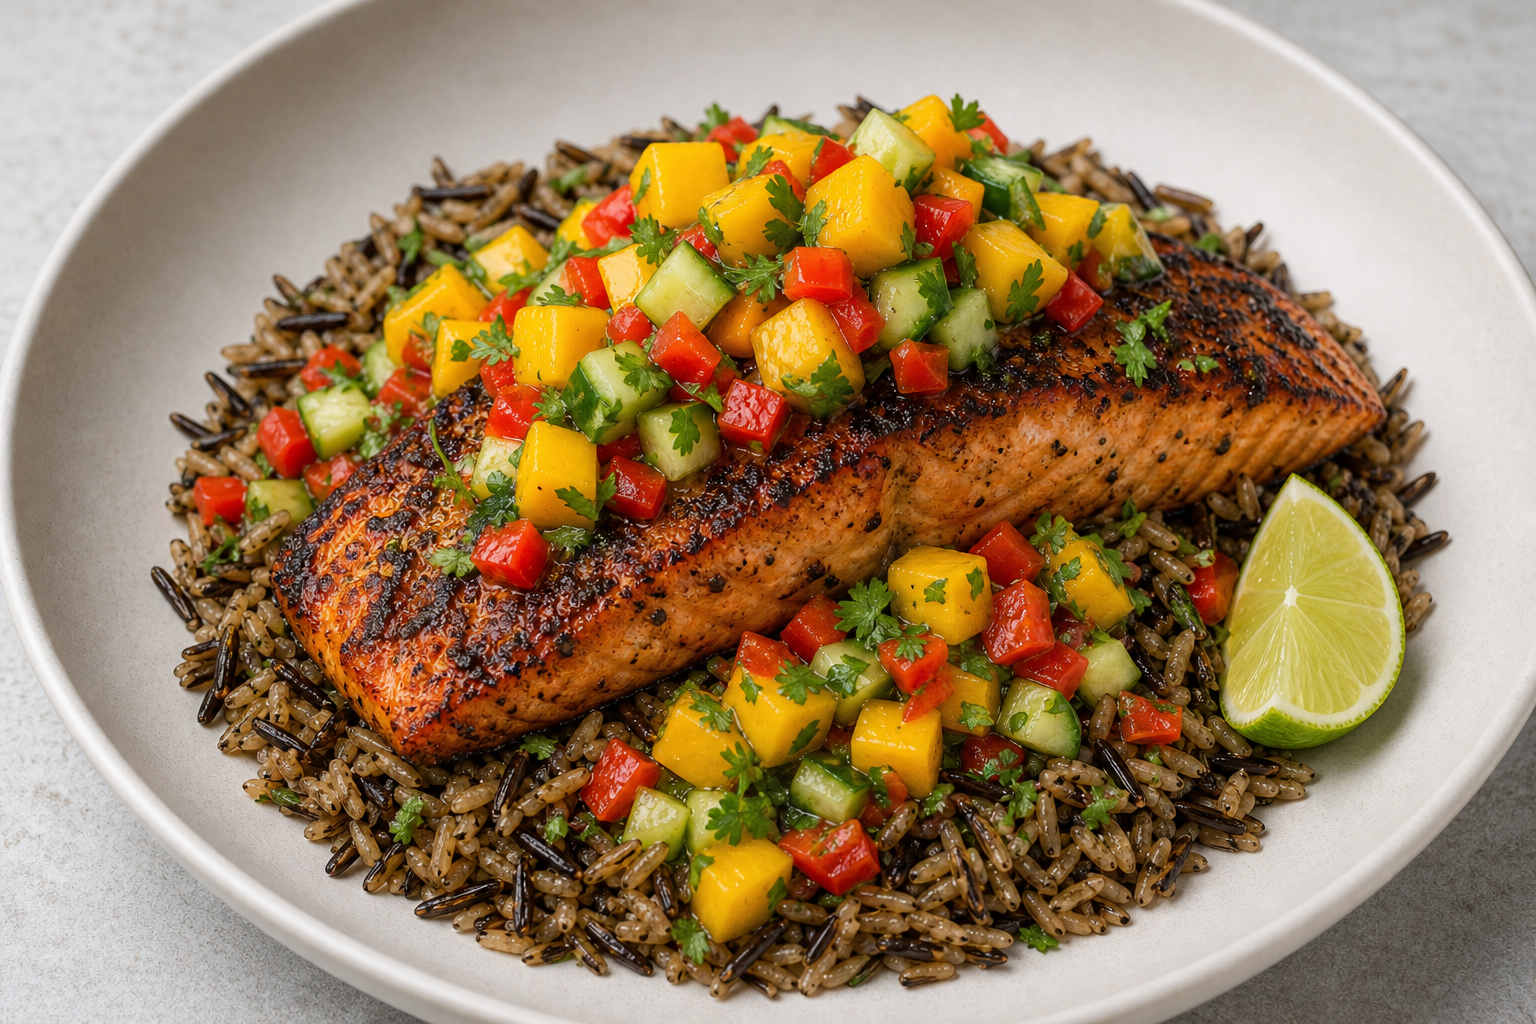
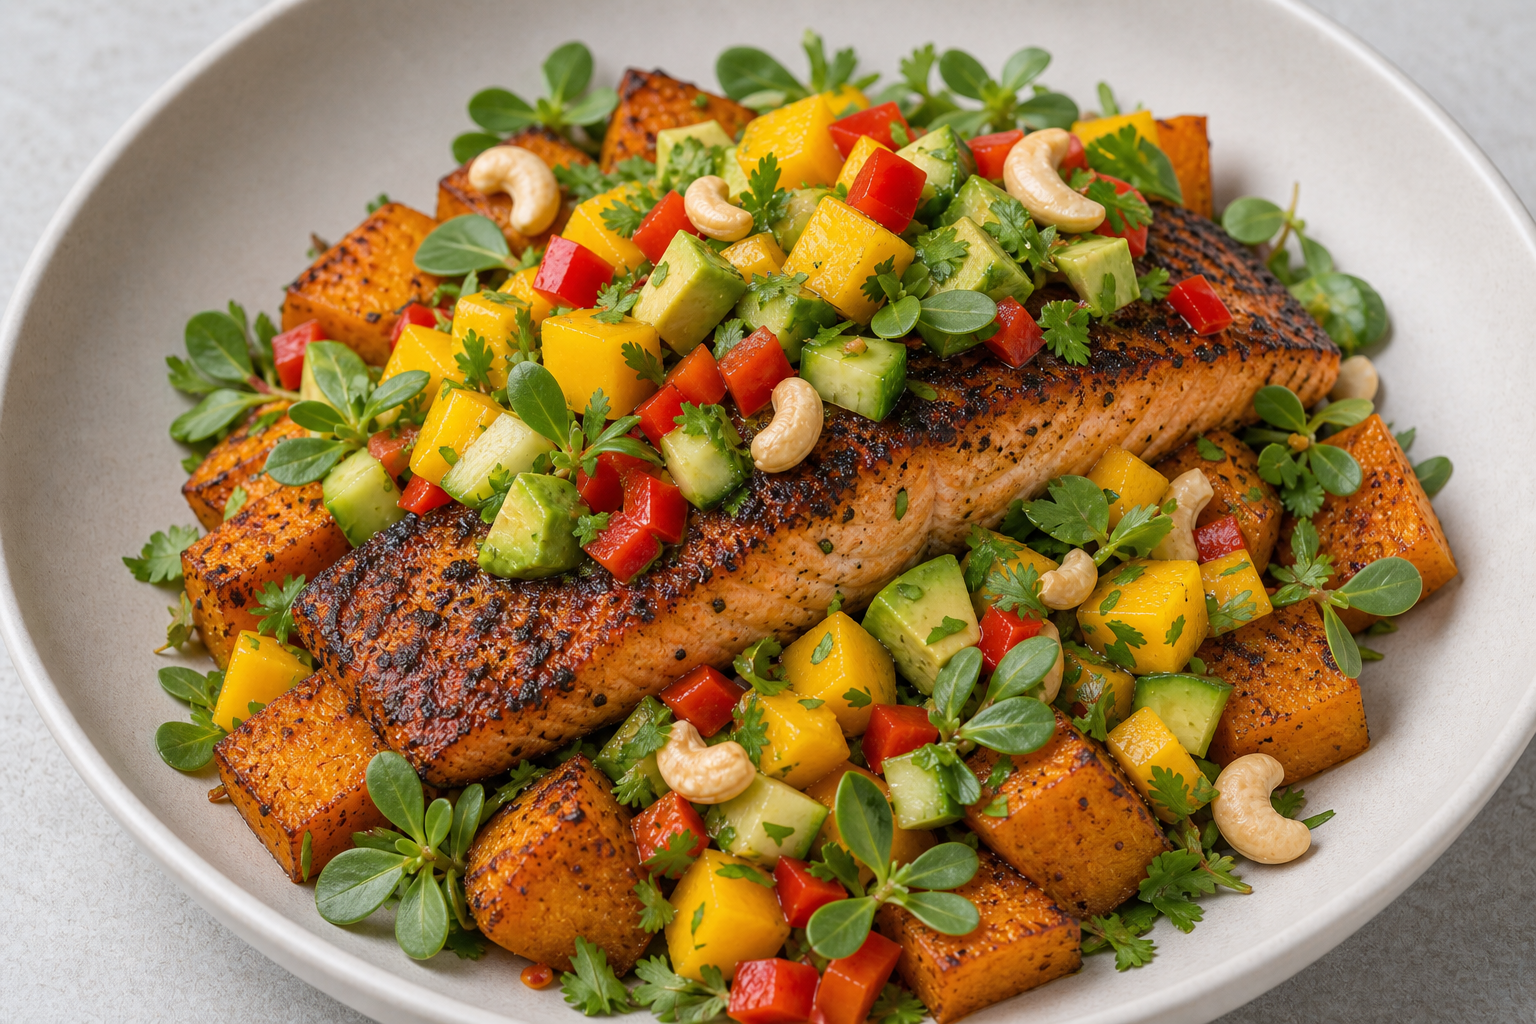
Fix crafted-for-you library revision crash and update two meal recipes.
Parse meal library revision timestamps safely on SQLite, swap salmon mango salsa to roasted pumpkin with avocado/purslane/cashews (new photo), and add lemon-tahini drizzle plus sesame to the beef-liver meatballs.

diff --git a/database/data/menu/library_refiner_overrides.php b/database/data/menu/library_refiner_overrides.php
@@ -1167,30 +1167,33 @@ Serve dressing on the side.',
         ],
     ],
     'Grilled Salmon Mango Salsa' => [
-        'synced_at' => '2026-07-20T08:20:00+00:00',
+        'synced_at' => '2026-07-22T15:59:48+00:00',
         'ingredients' => [
+            'Avocado' => 40.0,
             'Bell Pepper (Red)' => 30.0,
+            'Cashew Nuts' => 10.0,
             'Cucumber' => 40.0,
             'Fresh Coriander' => 3.0,
             'Lime Juice' => 10.0,
             'Mango' => 50.0,
+            'Pumpkin' => 90.0,
+            'Purslane' => 40.0,
             'Salmon (Raw)' => 150.0,
-            'Wild Rice (Cooked)' => 90.0,
         ],
-        'highlight' => 'Pan-seared salmon over wild rice with bright mango, cucumber, and pepper salsa.',
-        'short_description' => 'Pan-seared salmon over wild rice with bright mango, cucumber, and pepper salsa.',
-        'instructions' => 'Prepare Wild Rice (Cooked) per package or base instructions; keep warm.
-Dice mango, pepper, and cucumber. Mix with lime and coriander for salsa.
+        'highlight' => 'Pan-seared salmon over roasted pumpkin with mango salsa salad, avocado, purslane, and cashews.',
+        'short_description' => 'Pan-seared salmon over roasted pumpkin with mango salsa salad, avocado, purslane, and cashews.',
+        'instructions' => 'Cube pumpkin and roast at 200°C until tender and lightly caramelized at the edges.
+Dice mango, pepper, cucumber, and avocado. Toss with purslane, cashew nuts, lime juice, and coriander.
 Grill or pan-sear salmon until cooked through.
-Serve salmon over rice with mango salsa on top.',
+Serve salmon over roasted pumpkin with the mango salsa salad.',
         'diet_tags' => [
             0 => 'Dairy-free',
             1 => 'Gluten-free',
-            2 => 'Nut-free',
         ],
         'food_filter_tags' => [
             0 => 'fish',
             1 => 'nightshades',
+            2 => 'nuts',
         ],
     ],
     'Grilled Sumac Chicken Skewers w Zereshk & Turmeric Rice & Roasted Mixed Vegetables' => [
@@ -2163,7 +2166,7 @@ Serve immediately.',
         ],
     ],
     'Spiced Beef & Liver Meatballs w Roasted Tomato Couscous' => [
-        'synced_at' => '2026-07-20T08:00:00+00:00',
+        'synced_at' => '2026-07-22T16:08:07+00:00',
         'ingredients' => [
             'Beef Ground Lean' => 128.0,
             'Beef Liver' => 22.0,
@@ -2171,23 +2174,25 @@ Serve immediately.',
             'Cooked Couscous (Base)' => 90.0,
             'Fresh Basil' => 5.0,
             'Garlic (Raw)' => 4.0,
+            'Lemon-Tahini Dressing (Base)' => 15.0,
             'Marinara Sauce (Base)' => 90.0,
             'Olive Oil (Extra Virgin)' => 4.0,
             'Ras El Hanout (Base)' => 2.0,
+            'Sesame Seeds' => 10.0,
             'White Onion' => 28.0,
         ],
-        'highlight' => 'Spiced beef and liver meatballs simmered in marinara over fluffy couscous with roasted cherry tomatoes.',
-        'short_description' => 'Spiced beef and liver meatballs simmered in marinara over fluffy couscous with roasted cherry tomatoes.',
+        'highlight' => 'Spiced beef and liver meatballs simmered in marinara over fluffy couscous with roasted cherry tomatoes, lemon-tahini drizzle, and sesame seeds.',
+        'short_description' => 'Spiced beef and liver meatballs simmered in marinara over fluffy couscous with roasted cherry tomatoes, lemon-tahini drizzle, and sesame seeds.',
         'instructions' => 'Finely mince beef liver and mix with ground beef, grated onion, garlic, and Ras El Hanout (Base). Roll into small meatballs.
 Brown meatballs in olive oil; add Marinara Sauce (Base) and cherry tomatoes. Simmer 8–10 minutes until cooked through.
-Prepare Cooked Couscous (Base) per base recipe instructions. Plate couscous, top with meatballs and sauce, and finish with fresh basil.',
+Prepare Cooked Couscous (Base) per base recipe instructions. Plate couscous, top with meatballs and sauce, drizzle with Lemon-Tahini Dressing (Base), sprinkle sesame seeds over the top, and finish with fresh basil.',
         'diet_tags' => [
             0 => 'Dairy-free',
-            1 => 'Gluten-free',
         ],
         'food_filter_tags' => [
             0 => 'gluten',
             1 => 'nightshades',
+            2 => 'sesame',
         ],
     ],
     'Spiced Cauliflower Chickpea Salad' => [

diff --git a/tests/Feature/BalancedComplexCarbRecipeRefinerTest.php b/tests/Feature/BalancedComplexCarbRecipeRefinerTest.php
@@ -33,6 +33,9 @@ function seedComplexCarbRefinerFixtures(): void
         'Salmon (Raw)' => ['calories' => 208, 'protein' => 20.4, 'carbs' => 0, 'fat' => 13.4],
         'Sweet Potato' => ['calories' => 86, 'protein' => 1.6, 'carbs' => 20.1, 'fat' => 0.1],
         'Wild Rice (Cooked)' => ['calories' => 101, 'protein' => 4, 'carbs' => 21.3, 'fat' => 0.3],
+        'Pumpkin' => ['calories' => 26, 'protein' => 1, 'carbs' => 6.5, 'fat' => 0.1],
+        'Avocado' => ['calories' => 160, 'protein' => 2, 'carbs' => 8.5, 'fat' => 14.7],
+        'Cashew Nuts' => ['calories' => 553, 'protein' => 18.2, 'carbs' => 30.2, 'fat' => 43.8],
         'Turmeric Rice (Base)' => ['calories' => 15.62, 'protein' => 0.39, 'carbs' => 4.32, 'fat' => 0.03],
         'Cooked Quinoa (Base)' => ['calories' => 42.86, 'protein' => 1.57, 'carbs' => 7.61, 'fat' => 0.68],
         'Cooked Brown Basmati Rice (Base)' => ['calories' => 64.8, 'protein' => 1.64, 'carbs' => 13.4, 'fat' => 0.44],
@@ -116,7 +119,7 @@ test('balanced rotation mains use varied complex carbs instead of steamed white 
 
     $expectedCarbSources = [
         'Citrus Herb Salmon with Asparagus & Sweet Potato' => 'Sweet Potato',
-        'Grilled Salmon Mango Salsa' => 'Wild Rice (Cooked)',
+        'Grilled Salmon Mango Salsa' => 'Pumpkin',
         'Grilled Beef Steak Ratatouille & Saffron rice' => 'Saffron Rice (Base)',
         'Beef Bibimbap' => 'Cooked Quinoa (Base)',
         'Persian Herb Beef Stew' => 'Steamed Basmati Rice (Base)',

diff --git a/app/Services/NutrientDenseLiverMealRecipeRefiner.php b/app/Services/NutrientDenseLiverMealRecipeRefiner.php
@@ -231,13 +231,15 @@ final class NutrientDenseLiverMealRecipeRefiner
                     'Cooked Couscous (Base)' => 90.0,
                     'Fresh Basil' => 5.0,
                     'Garlic (Raw)' => 4.0,
+                    'Lemon-Tahini Dressing (Base)' => 15.0,
                     'Marinara Sauce (Base)' => 90.0,
                     'Olive Oil (Extra Virgin)' => 4.0,
                     'Ras El Hanout (Base)' => 2.0,
+                    'Sesame Seeds' => 10.0,
                     'White Onion' => 28.0,
                 ],
                 'diet_tags' => $tags,
-                'short_description' => 'Spiced beef and liver meatballs simmered in marinara over fluffy couscous with roasted cherry tomatoes.',
+                'short_description' => 'Spiced beef and liver meatballs simmered in marinara over fluffy couscous with roasted cherry tomatoes, lemon-tahini drizzle, and sesame seeds.',
             ],
             self::PERI_PERI_CHICKEN_LIVER_NAME => [
                 'ingredients' => [

diff --git a/app/Models/Meal.php b/app/Models/Meal.php
@@ -16,6 +16,7 @@ use Illuminate\Database\Eloquent\Model;
 use Illuminate\Database\Eloquent\Relations\BelongsToMany;
 use Illuminate\Database\Eloquent\Relations\HasOne;
 use Illuminate\Database\Eloquent\SoftDeletes;
+use Illuminate\Support\Carbon;
 
 class Meal extends Model
 {
@@ -162,6 +163,24 @@ class Meal extends Model
         $max = static::queryForMealLibrary()->max('library_sort_order');
 
         return $max !== null ? ((int) $max) + 1 : 0;
+    }
+
+    public static function libraryRevisionTimestamp(): int
+    {
+        $updatedAt = static::queryForMealLibrary()
+            ->reorder()
+            ->orderByDesc('updated_at')
+            ->value('updated_at');
+
+        if ($updatedAt === null) {
+            return 0;
+        }
+
+        if ($updatedAt instanceof \DateTimeInterface) {
+            return $updatedAt->getTimestamp();
+        }
+
+        return (int) Carbon::parse($updatedAt)->getTimestamp();
     }
 
     /**

diff --git a/app/Services/BalancedMealInstructionRefiner.php b/app/Services/BalancedMealInstructionRefiner.php
@@ -333,10 +333,10 @@ final class BalancedMealInstructionRefiner
                 'Serve salmon with sweet potato and asparagus.',
             ]),
             'Grilled Salmon Mango Salsa' => $this->steps([
-                'Cook wild rice according to package. Keep warm.',
-                'Dice mango, pepper, and cucumber. Mix with lime and coriander for salsa.',
+                'Cube pumpkin and roast at 200°C until tender and lightly caramelized at the edges.',
+                'Dice mango, pepper, cucumber, and avocado. Toss with purslane, cashew nuts, lime juice, and coriander.',
                 'Grill or pan-sear salmon until cooked through.',
-                'Serve salmon over rice with mango salsa on top.',
+                'Serve salmon over roasted pumpkin with the mango salsa salad.',
             ]),
 
             // Beef mains

diff --git a/app/Http/Controllers/Customer/ConsultationCraftedForYouController.php b/app/Http/Controllers/Customer/ConsultationCraftedForYouController.php
@@ -43,7 +43,7 @@ class ConsultationCraftedForYouController extends Controller
             'pageEyebrow' => $isCustomer ? 'Your plan' : 'Admin / Consultation',
             'adaptedMenuUrl' => route('api.menu.adapted', absolute: false),
             'mealDetailViewUrlTemplate' => '/api/meals/{id}/detail-view',
-            'mealLibraryRevision' => Meal::queryForMealLibrary()->max('updated_at')?->getTimestamp() ?? 0,
+            'mealLibraryRevision' => Meal::libraryRevisionTimestamp(),
             'planTiers' => UserPlanCalculator::planTiers(),
             'planTier' => $profile?->daily_calorie_target !== null
                 ? (int) UserPlanCalculator::snapToPlanTier((float) $profile->daily_calorie_target)

diff --git a/app/Services/BalancedComplexCarbRecipeRefiner.php b/app/Services/BalancedComplexCarbRecipeRefiner.php
@@ -125,10 +125,13 @@ final class BalancedComplexCarbRecipeRefiner
             'Grilled Salmon Mango Salsa' => [
                 'ingredients' => [
                     'Salmon (Raw)' => StandardMeatPortion::GRAMS,
-                    'Wild Rice (Cooked)' => 90,
+                    'Pumpkin' => 90,
                     'Mango' => 50,
                     'Bell Pepper (Red)' => 30,
                     'Cucumber' => 40,
+                    'Avocado' => 40,
+                    'Purslane' => 40,
+                    'Cashew Nuts' => 10,
                     'Lime Juice' => 10,
                     'Fresh Coriander' => 3,
                 ],

diff --git a/app/Http/Controllers/Api/AdaptedMenuController.php b/app/Http/Controllers/Api/AdaptedMenuController.php
@@ -45,7 +45,7 @@ class AdaptedMenuController extends Controller
             'profile_id' => $profile->id,
             'daily_calorie_target' => $profile->daily_calorie_target,
             'include_soup' => $includeSoup,
-            'meal_library_revision' => Meal::queryForMealLibrary()->max('updated_at')?->getTimestamp() ?? 0,
+            'meal_library_revision' => Meal::libraryRevisionTimestamp(),
             'plan' => $menu['plan'],
             'fixed_portion_meals' => $menu['fixed_portion_meals'],
             'optional_add_on_meals' => $menu['optional_add_on_meals'],
